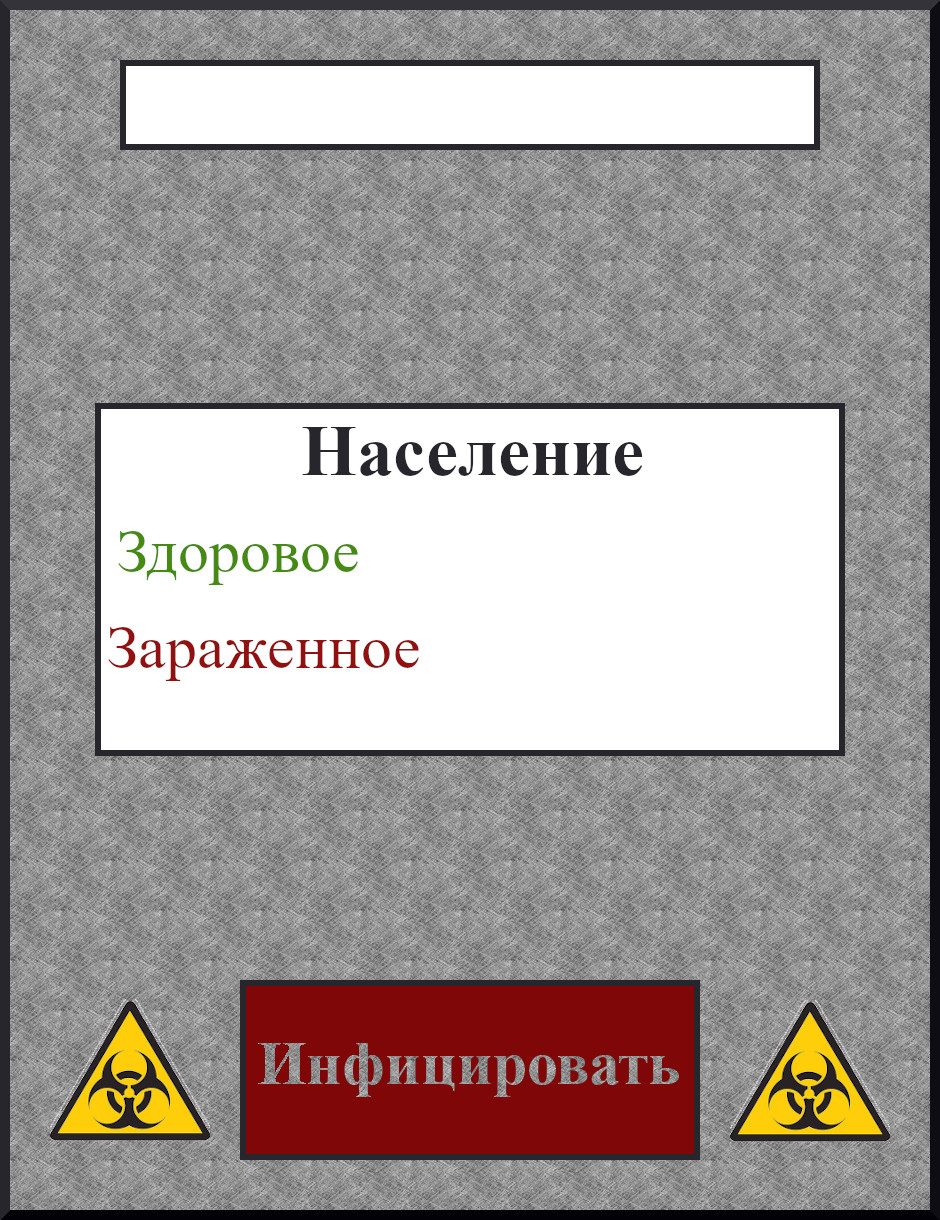
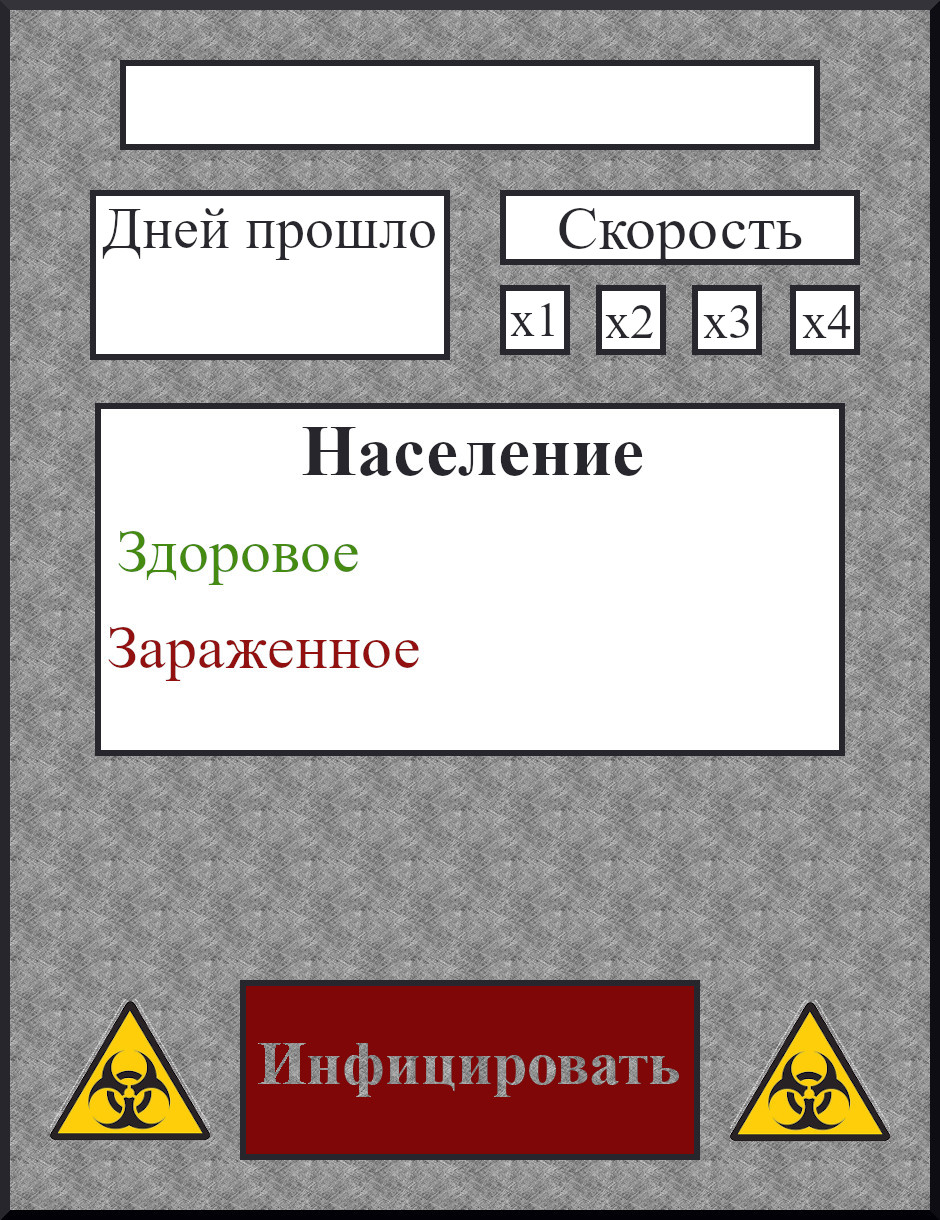
"days counter"

Changed region(s): [[0.0926, 0.1557, 0.4936, 0.3115], [0.5245, 0.1557, 0.9255, 0.3115]]

diff --git a/sidebar.py b/sidebar.py
@@ -13,12 +13,18 @@ class Sidebar:
                                       (int(595 / 800 * self.width), int(485 / 600 * self.height)),
                                       (int(595 / 800 * self.width), int(570 / 600 * self.height)),
                                       (int(205 / 800 * self.width), int(570 / 600 * self.height))])
+
         self.bg = pygame.image.load(os.path.join("imgs", "sidebar.jpg"))
         self.bg = pygame.transform.scale(self.bg, (self.width, self.height))
 
         self.country_name = ""
         self.country_name_pos = (self.position[0] + int(1 / 2 * self.width),
                                  self.position[1] + int(1 / 20 * self.height))
+
+        self.days_passed = ""
+        self.days_passed_pos = (self.position[0] + int(250 / 800 * self.width),
+                                self.position[1] + int(135 / 600 * self.height))
+
         self.country_population = ""
         self.country_population_pos = (self.position[0] + int(545 / 800 * self.width),
                                        self.position[1] + int(255 / 600 * self.height))
@@ -28,12 +34,36 @@ class Sidebar:
 
         pygame.font.init()
         self.country_name_font = pygame.font.SysFont("Times New Roman", 40)
+        self.days_passed_font = pygame.font.SysFont("Times New Roman", 30)
         self.country_population_font = pygame.font.SysFont("Times New Roman", 30)
 
-    def update(self, country):
+        self.speed = 1
+        self.speed_border_width = int(70 / 940 * self.width + 1)
+        self.speed_border_thickness = int(8 / 940 * self.width)
+        self.speed_border_pos = [(self.position[0] + int(504 / 940 * self.width),
+                                  self.position[1] + int(290 / 1220 * self.height)),
+                                 (self.position[0] + int(600 / 940 * self.width),
+                                  self.position[1] + int(290 / 1220 * self.height)),
+                                 (self.position[0] + int(695 / 940 * self.width),
+                                  self.position[1] + int(290 / 1220 * self.height)),
+                                 (self.position[0] + int(794 / 940 * self.width),
+                                  self.position[1] + int(290 / 1220 * self.height))
+                                 ]
+
+        self.speed_polygons = []
+        for point in self.speed_border_pos:
+            self.speed_polygons.append(Polygon([
+                (point[0] - self.position[0], point[1] - self.position[1]),
+                (point[0] - self.position[0] + self.speed_border_width, point[1] - self.position[1]),
+                (point[0] - self.position[0] + self.speed_border_width,
+                 point[1] + self.speed_border_width - self.position[1]),
+                (point[0] - self.position[0], point[1] + self.speed_border_width - self.position[1])]))
+
+    def update(self, country, days_passed, speed):
         self.country_name = country.name
         self.country_population = str(country.population - country.sick)
         self.country_sick = str(country.sick)
+        self.days_passed = str(days_passed)
 
     def draw(self, win):
         win.blit(self.bg, self.position)
@@ -42,6 +72,11 @@ class Sidebar:
         width, height = self.country_name_font.size(self.country_name)
         country_name_pos = (self.country_name_pos[0] - int(width / 2), self.country_name_pos[1])
         win.blit(country_name, country_name_pos)
+
+        days_passed = self.days_passed_font.render(self.days_passed, False, (0, 0, 0))
+        width, height = self.days_passed_font.size(self.country_name)
+        days_passed_pos = (self.days_passed_pos[0] - int(width / 2), self.days_passed_pos[1])
+        win.blit(days_passed, days_passed_pos)
 
         country_population = self.country_population_font.render(self.country_population, False, (0, 110, 0))
         width, height = self.country_population_font.size(self.country_population)
@@ -53,11 +88,25 @@ class Sidebar:
         country_sick_pos = (self.country_sick_pos[0] - int(width / 2), self.country_sick_pos[1])
         win.blit(country_sick, country_sick_pos)
 
-
-
+        rect = pygame.Rect(self.speed_border_pos[self.speed - 1],
+                           (self.speed_border_width - self.speed_border_thickness,
+                            self.speed_border_width - self.speed_border_thickness))
+        pygame.draw.rect(win, (235, 200, 50), rect, self.speed_border_thickness)
 
     def is_button_pressed(self, x, y):
         x -= self.position[0]
         y -= self.position[1]
         point = Point((x, y))
         return self.infect_button.contains(point)
+
+    def speed_selector(self, x, y):
+        x -= self.position[0]
+        y -= self.position[1]
+        point = Point((x, y))
+        i = 1
+        for sp in self.speed_polygons:
+            if sp.contains(point):
+                self.speed = i
+                return int(i)
+            i += 1
+        return self.speed

diff --git a/game.py b/game.py
@@ -9,15 +9,15 @@ import world
 def countries_init():
     cntrs = []
     rus = country.Country("Тест")
-    rus.set_position((0, 0))
+    rus.set_position((100, 100))
     rus.set_polygon([(0, 0), (0, 300), (300, 300), (300, 0)])
     rus.population = 1000000
     cntrs.append(rus)
 
     rus2 = country.Country("RUS")
-    rus2.set_position((0, 300))
+    rus2.set_position((500, 80))
     rus2.set_polygon([(0, 0), (0, 300), (300, 300), (300, 0)])
-    rus2.population = 98718927312
+    rus2.population = 1000000
     cntrs.append(rus2)
     return cntrs
 
@@ -46,7 +46,7 @@ class Game:
         self.days_passed = 0
         self.speed = 1
 
-        self.sidebar.update(self.selected_county)
+        self.sidebar.update(self.selected_county, self.days_passed, self.speed)
 
     def run(self):
         run = True
@@ -64,8 +64,6 @@ class Game:
                     x = pygame.mouse.get_pos()[0]
                     y = pygame.mouse.get_pos()[1]
 
-                    # self.fill(self.bg, (x, y), (255, 5, 5))
-
                     if (self.border_width < x) and (x < (self.paint_area_width + self.border_width)):
                         if (self.border_width < y) and (y < (self.paint_area_height + self.border_width)):
 
@@ -76,12 +74,15 @@ class Game:
                                     self.selected_county = cntry
                                     break
 
-                    self.sidebar.update(self.selected_county)
+                    self.sidebar.update(self.selected_county, self.days_passed, self.speed)
 
                     if self.sidebar.is_button_pressed(x, y):
                         if self.selected_county != self.World:
                             self.selected_county.infect()
                             self.is_country_infected = True
+
+                    self.speed = self.sidebar.speed_selector(x, y)
+                    print(self.speed)
 
             self.update()
             self.draw()
@@ -92,14 +93,14 @@ class Game:
 
     def update(self):
         if self.is_country_infected:
-            self.days_passed += self.speed
+            self.days_passed += 1
             self.World.update()
 
-            for country in self.countries:
-                color = country.update(self.speed)
-                # self.fill(self.bg, country.position, color)
+            for cntry in self.countries:
+                color = cntry.update(self.speed)
+                self.fill(self.bg, cntry.position, color)
 
-            self.sidebar.update(self.selected_county)
+            self.sidebar.update(self.selected_county, self.days_passed, self.speed)
 
     def draw(self):
         self.win.blit(self.bg, (self.border_width, self.border_width))
@@ -107,8 +108,6 @@ class Game:
         self.win.blit(self.border, (0, 0))
         pygame.display.update()
 
-        if self.is_country_infected:
-            print(self.days_passed)
 
     def fill(self, surface, point, color):
         arr = pygame.surfarray.array3d(surface)

diff --git a/country.py b/country.py
@@ -29,8 +29,11 @@ class Country:
             sick = self.sick + 10000
             self.sick = min(self.population, sick)
 
-            color = (128, 0, 0)
+            ratio = int(self.sick / self.population * 255)
+            color = (255, 255 - ratio, 255 - ratio)
             return color
+        else:
+            return (255, 255, 255)
 
     def is_selected(self, x, y):
         x -= self.position[0]
